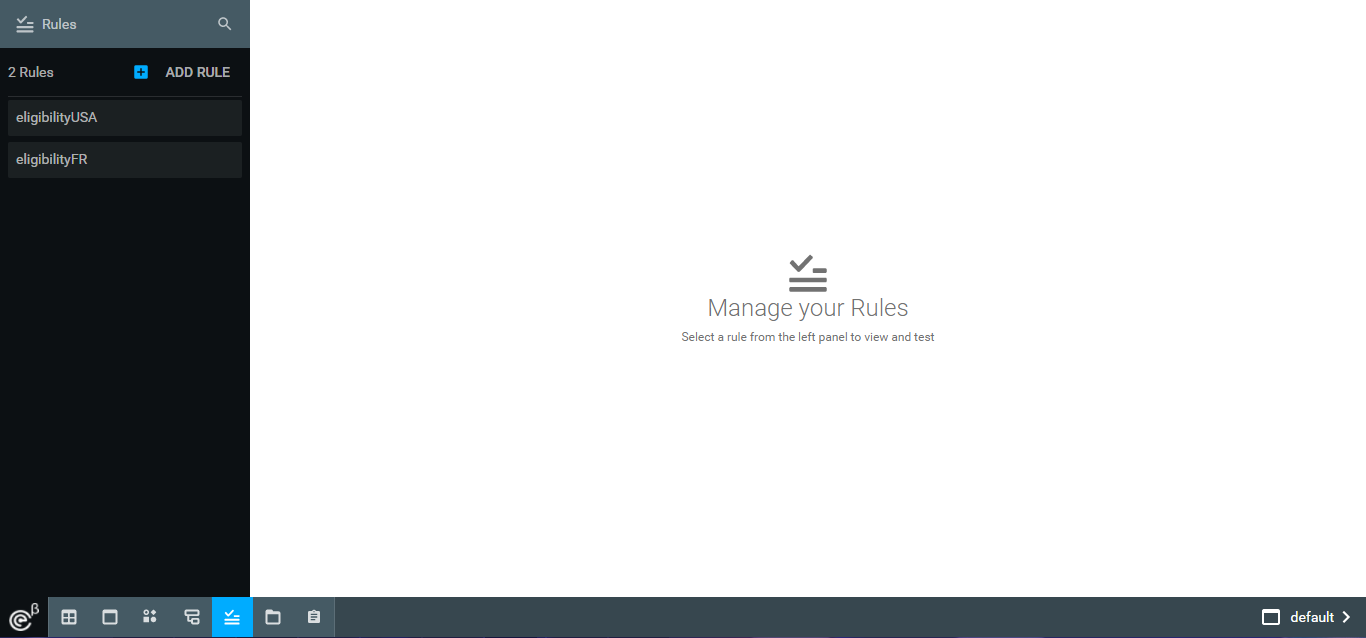
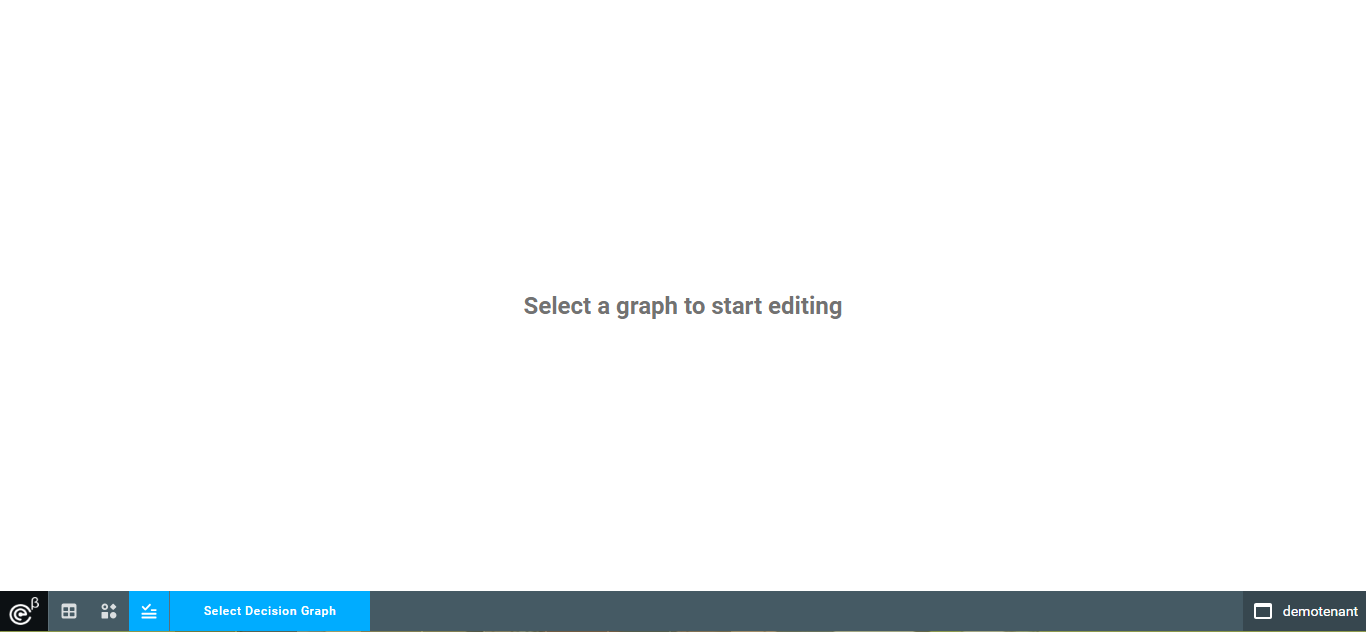
Updated documentation and added oe-feel-designer as bower dependency.

Changed region(s): [[0.0, 0.0, 1.0, 1.0], [0.369, 0.3908, 0.6764, 0.5411]]

diff --git a/elements/oe-studio-iconset.html b/elements/oe-studio-iconset.html
@@ -38,7 +38,7 @@ Any unauthorized reproduction, storage, transmission in any form or by any means
                 c-0.4,0-0.7,0.3-0.7,0.7v2.8c0,0.4,0.3,0.7,0.7,0.7h5.6c0.4,0,0.7-0.3,0.7-0.7v-2.8c0-0.4-0.3-0.7-0.7-0.7H14.1z"
         />
     </svg>
-    <svg version="1.1" id="oe-rule-manager" x="0px" y="0px" viewBox="0 0 24 24" style="enable-background:new 0 0 24 24;">
+    <svg version="1.1" id="oe-feel-designer" x="0px" y="0px" viewBox="0 0 24 24" style="enable-background:new 0 0 24 24;">
         <path id="rule" fill="currentColor" d="M1.5,14.8c-0.4,0-0.7,0.3-0.7,0.7v1.4c0,0.4,0.3,0.7,0.7,0.7h21c0.4,0,0.7-0.3,0.7-0.7v-1.4
                     c0-0.4-0.3-0.7-0.7-0.7H1.5z M1.5,20.4c-0.4,0-0.7,0.3-0.7,0.7v1.4c0,0.4,0.3,0.7,0.7,0.7h21c0.4,0,0.7-0.3,0.7-0.7v-1.4
                     c0-0.4-0.3-0.7-0.7-0.7H1.5z M22.5,12c0.4,0,0.7-0.3,0.7-0.7V9.9c0-0.4-0.3-0.7-0.7-0.7h-7c-0.4,0-0.7,0.3-0.7,0.7v1.4

diff --git a/elements/module-switcher.html b/elements/module-switcher.html
@@ -96,7 +96,7 @@ Any unauthorized reproduction, storage, transmission in any form or by any means
     <paper-tabs align-bottom selected="{{selectedRoute.path}}" attr-for-selected="datavalue">
       <template is="dom-repeat" items="{{modules}}">
         <paper-tab datavalue="{{item.path}}">
-          <iron-icon icon$="oe-studio-icons:[[item.name]]" class="module-icon"></iron-icon>
+          <iron-icon icon$="[[_getIcon(item)]]" class="module-icon"></iron-icon>
           <div class="tooltip">
             [[item.name]]
           </div>
@@ -118,6 +118,9 @@ Any unauthorized reproduction, storage, transmission in any form or by any means
           type:Object,
           notify:true
         }
+      },
+      _getIcon:function(item){
+        return item.icon?item.icon:("oe-studio-icons:"+item.name);
       }
     });
   </script>

diff --git a/README.md b/README.md
@@ -37,22 +37,22 @@ To know more about the modules click on the respective links provided.
 * Model Manager [git](http://evgit/oecloud.io/oe-model-manager)
   * Manage oe-cloud based models and their data .
   ![Model Management](docs/images/oe-studio-landing.png)
-* UI designer [git](http://evgit/oecloud.io/oe-ui-designer)
-  * Create simple Polymer based form components and dashboards.
-  ![UI designer](docs/images/oe-studio-ui-designer.png)
 * Workflow Modeler [git](http://evgit/oecloud.io/oe-workflow-modeler)
   * Manage workflows related to the running application.
   ![Workflow Modeler](docs/images/oe-studio-workflow-modeler.png)
-* Route Manager [git](http://evgit/oecloud.io/oe-route-manager)
+* Rule Manager [git](http://evgit/oecloud.io/oe-feel-designer)
+  * Handle Decision table and Decision graph management and execution.
+   ![Rule Manager](docs/images/oe-studio-rule-manager.png)
+* Route Manager (experimental) [git](http://evgit/oecloud.io/oe-route-manager)
   * Handle event based navigation through ui-routes.
   ![Route Manager](docs/images/oe-studio-route-manager.png)
-* Rule Manager [git](http://evgit/oecloud.io/oe-rule-manager)
-  * Handle Business rule management and execution.
-   ![Rule Manager](docs/images/oe-studio-rule-manager.png)
-* Resource Manager [git](http://evgit/oecloud.io/oe-resource-manager)
+* UI designer (experimental) [git](http://evgit/oecloud.io/oe-ui-designer)
+  * Create simple Polymer based form components and dashboards.
+  ![UI designer](docs/images/oe-studio-ui-designer.png)
+* Resource Manager (experimental) [git](http://evgit/oecloud.io/oe-resource-manager)
   * Handle UI Resources.
    ![Resource Manager](docs/images/oe-studio-resource-manager.png)
-* Component Manager [git](http://evgit/oecloud.io/oe-component-manager)
+* Component Manager (experimental) [git](http://evgit/oecloud.io/oe-component-manager)
   * Manage MetaPolymer based forms. 
    ![Component Manager](docs/images/oe-studio-component-manager.png)
 
@@ -105,31 +105,15 @@ The modules array provided in the `config.json` determines the plugins available
       'name': 'oe-model-manager',
       'path': '',
       'import': '/bower_components/oe-model-manager/oe-model-manager.html'
-    }, {
-      'name': 'oe-ui-designer',
-      'path': 'ui-designer',
-      'import': '/bower_components/oe-ui-designer/oe-ui-designer.html'
-    }, {
-      'name': 'oe-route-manager',
-      'path': 'route-manager',
-      'import': '/bower_components/oe-route-manager/oe-route-manager.html'
-    }, {
-      'name': 'oe-resource-manager',
-      'path': 'resource-manager',
-      'import': '/bower_components/oe-resource-manager/oe-resource-manager.html'
-    }, {
-      'name': 'oe-rule-manager',
-      'path': 'rule-manager',
-      'import': '/bower_components/oe-rule-manager/oe-rule-manager.html'
-    }, {
+    },{
       'name': 'workflow-designer',
       'path': 'workflow-designer',
       'import': '/bower_components/oe-workflow-modeler/workflow-designer.html'
     }, {
-      'name': 'oe-component-manager',
-      'path': 'component-manager',
-      'import': '/bower_components/oe-component-manager/oe-component-manager.html'
-    }];
+      'name': 'oe-feel-designer',
+      'path': 'rule-manager',
+      'import': '/bower_components/oe-feel-designer/oe-feel-designer.html'
+    }]
 
 ```
 ---
